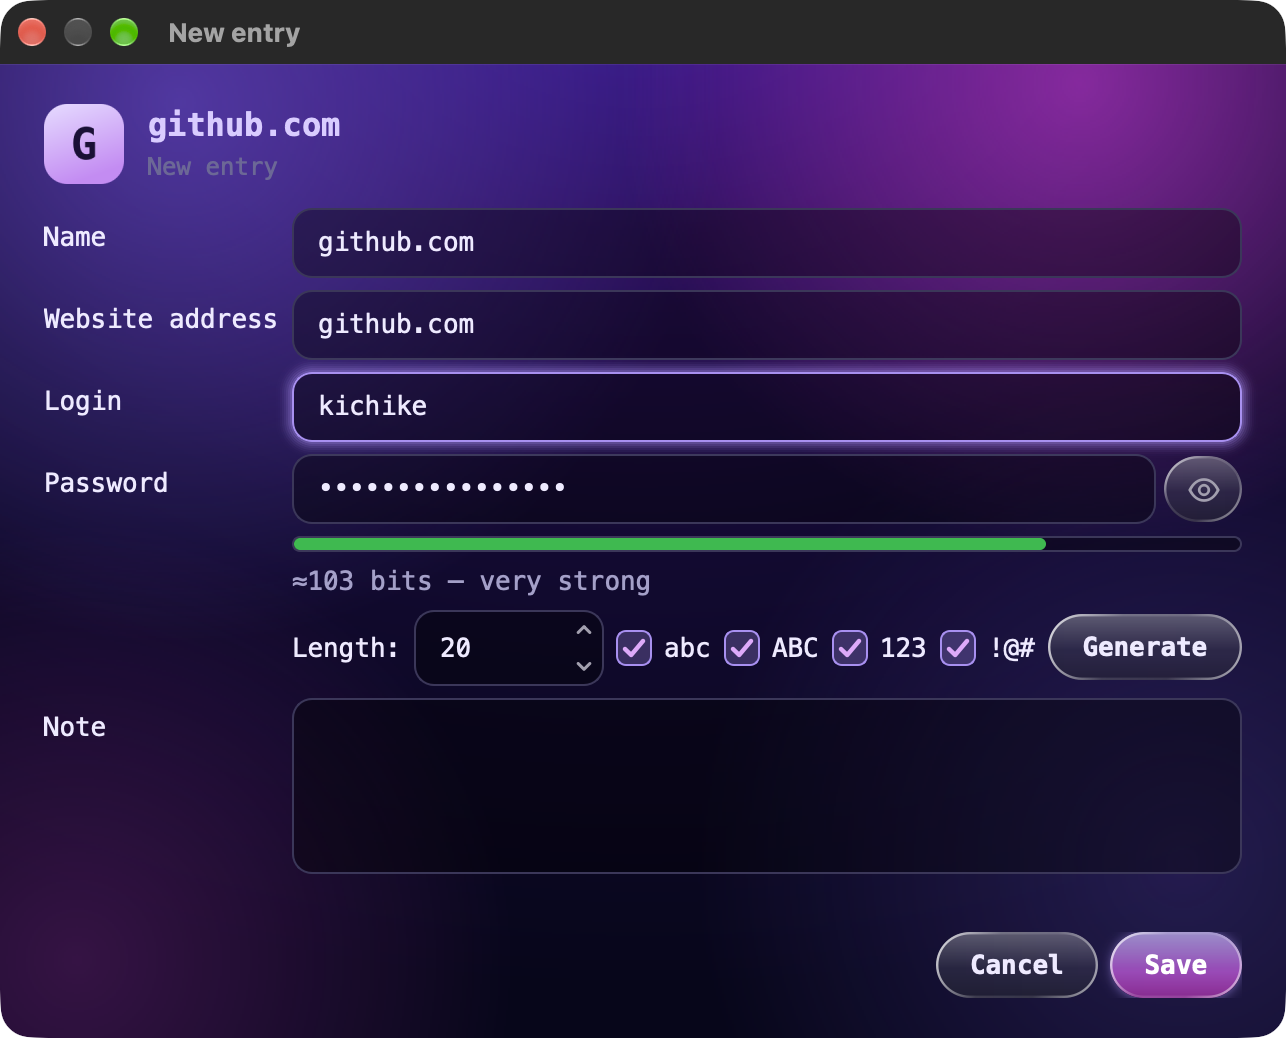
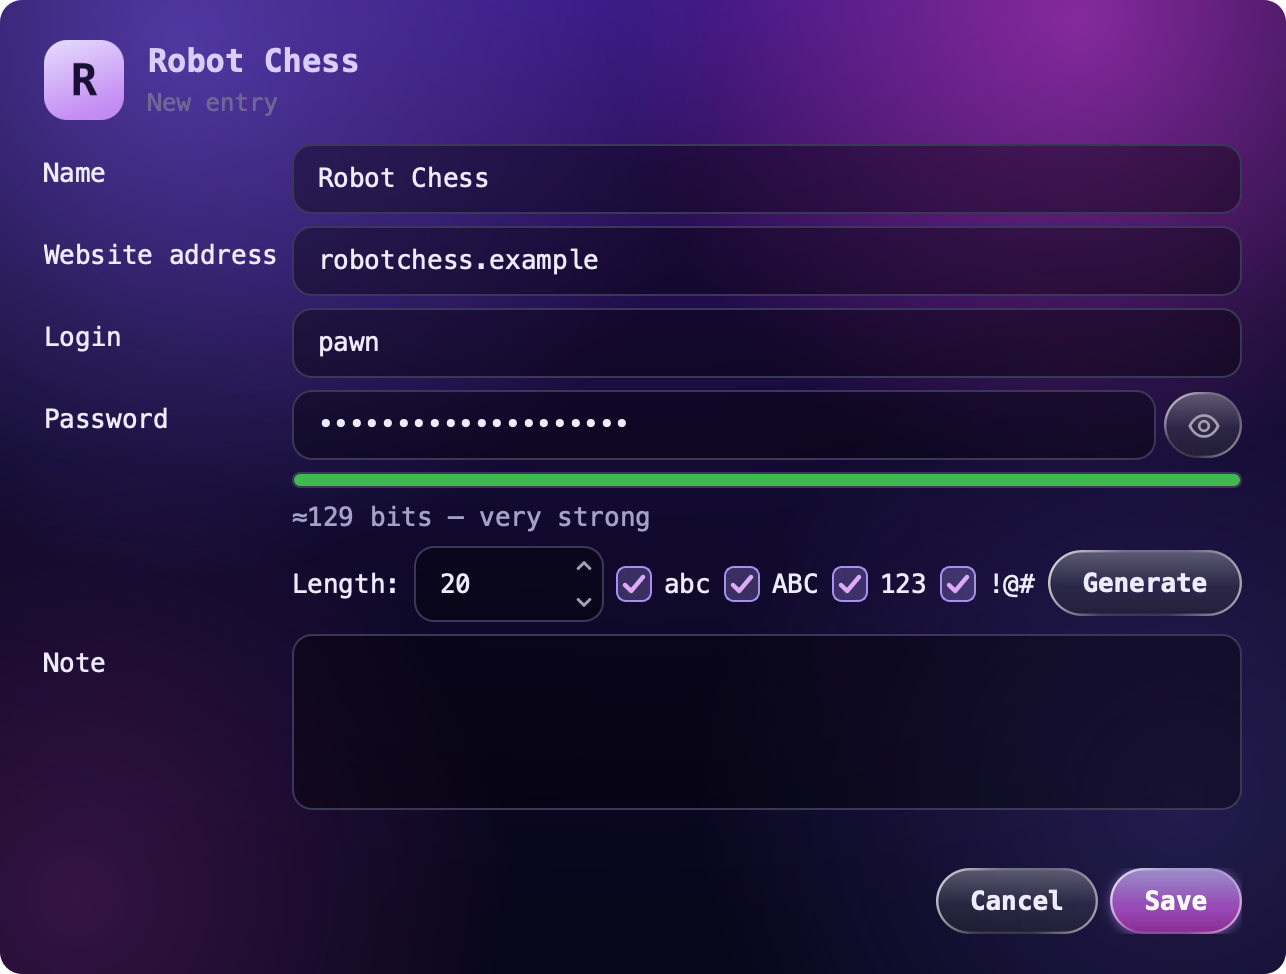
README screenshots with made-up entries; site: quiet anchor jumps, stay static after a lost WebGL context

diff --git a/site/sound.js b/site/sound.js
@@ -2,6 +2,7 @@
 // Звуковых файлов нет: всё синтезируется прямо в браузере.
 window.whoSound = (() => {
   let ctx = null, master, analyser, enabled = false;
+  let jumping = false, settled = true, settleTimer = 0;
   let lastNoteAt = 0, lastDots = -1, lastStep = -1, lastSeal = -1, lastPass = 0, lastC = 0, thudArmed = true;
   const clamp = (v, a = 0, b = 1) => Math.min(b, Math.max(a, v));
   // ноты мажорной пентатоники: любые из них звучат вместе без фальши
@@ -51,7 +52,10 @@ window.whoSound = (() => {
   function frame({ c, speed, dots, grid, uProg, passes, sealing, sealProgress }) {
     if (!enabled || !ctx) return;
     const now = performance.now();
-    if (dots > lastDots && lastDots >= 0) key();
+    // прыжок по ссылке из меню пролетает всю историю за секунду: молчим, пока страница не встанет
+    if (jumping && settled && speed < .02) jumping = false;
+    const loud = !jumping;
+    if (dots > lastDots && lastDots >= 0 && loud) key();
     lastDots = dots;
 
     if (grid > .01 && uProg > 0 && uProg < passes) {
@@ -59,25 +63,25 @@ window.whoSound = (() => {
       const step = Math.floor(uProg * 16), pass = Math.floor(uProg);
       if (step !== lastStep && lastStep >= 0 && now - lastNoteAt > 85) {
         const within = step % 16;
-        pluck(pass * 2 + [0, 2, 4, 3, 5, 7, 6, 8][within % 8] + (within >> 3) * 2);
+        if (loud) pluck(pass * 2 + [0, 2, 4, 3, 5, 7, 6, 8][within % 8] + (within >> 3) * 2);
         lastNoteAt = now;
       }
       lastStep = step;
-      if (pass > lastPass) chord();
+      if (pass > lastPass && loud) chord();
       lastPass = pass;
     } else {
       lastStep = -1;
       if (c < 2.1) lastPass = 0;
-      if (c > 2.8 && lastC <= 2.8) chord();
+      if (c > 2.8 && lastC <= 2.8 && loud) chord();
     }
 
     if (sealing) {
       const seal = Math.floor(clamp(sealProgress) * 6);
-      if (seal !== lastSeal && lastSeal >= 0 && now - lastNoteAt > 160) { bell(seal); lastNoteAt = now; }
+      if (seal !== lastSeal && lastSeal >= 0 && now - lastNoteAt > 160) { if (loud) bell(seal); lastNoteAt = now; }
       lastSeal = seal;
     } else lastSeal = -1;
 
-    if (c >= 4.3 && lastC < 4.3 && thudArmed) { thud(); thudArmed = false; }
+    if (c >= 4.3 && lastC < 4.3 && thudArmed) { if (loud) thud(); thudArmed = false; }
     if (c < 4.1) thudArmed = true;
     lastC = c;
   }
@@ -95,6 +99,19 @@ window.whoSound = (() => {
     else { setTimeout(() => { if (!enabled) ctx.suspend(); }, 250); }
     return enabled;
   }
+
+  // ссылка внутри страницы («Скачать», «Честно», логотип): дальше прокрутка — не человека
+  document.addEventListener('click', e => {
+    const link = e.target.closest && e.target.closest('a[href^="#"]');
+    if (link && !e.defaultPrevented) { jumping = true; settled = false; clearTimeout(settleTimer); settleTimer = setTimeout(() => { settled = true; }, 250); }
+  });
+  addEventListener('scroll', () => {
+    if (!jumping) return;
+    settled = false; clearTimeout(settleTimer);
+    settleTimer = setTimeout(() => { settled = true; }, 250);
+  }, { passive: true });
+  // человек сам взялся за прокрутку — снова его звук
+  for (const type of ['wheel', 'touchstart', 'keydown']) addEventListener(type, () => { jumping = false; }, { passive: true });
 
   document.addEventListener('visibilitychange', () => {
     if (!ctx || !enabled) return;

diff --git a/site/app.js b/site/app.js
@@ -500,8 +500,8 @@
     let sm = scrollY, last = performance.now(), t0 = last, visible = true, arcsDirty = false, lastDots = -1, lastHud = '';
     new IntersectionObserver(es => { visible = es[0].isIntersecting; if (visible) kick(); }).observe($('#story'));
     document.addEventListener('visibilitychange', () => { if (!document.hidden) kick(); });
-    let raf = 0;
-    function kick() { if (!raf) { last = performance.now(); raf = requestAnimationFrame(frame); } }
+    let raf = 0, lost = false;
+    function kick() { if (!raf && !lost) { last = performance.now(); raf = requestAnimationFrame(frame); } }
     addEventListener('scroll', kick, { passive: true });
 
     function drawArcs(pass, f) {
@@ -534,7 +534,7 @@
 
     function frame(now) {
       raf = 0;
-      if (!visible || document.hidden) return;
+      if (!visible || document.hidden || lost) return;
       const dt = Math.min(.05, (now - last) / 1000); last = now;
       const y = scrollY, prev = sm;
       sm += (y - sm) * (1 - Math.exp(-dt * 8));
@@ -638,12 +638,13 @@
     }
 
     function layoutAll() {
+      if (lost) return;
       measure();
       buildStatic();
       buildDemo();
       metrics();
     }
-    rebuildDemoFormations = () => { lastHud = ''; buildDemo(); metrics(); };
+    rebuildDemoFormations = () => { if (lost) return; lastHud = ''; buildDemo(); metrics(); };
     layoutAll();
     onLang = () => { layoutAll(); seg = null; };
     let rt = 0, lastW = innerWidth, lastH = innerHeight;
@@ -651,13 +652,19 @@
       // phones change height when the address bar hides: not a reason to rebuild
       if (innerWidth === lastW && Math.abs(innerHeight - lastH) < 130) return;
       lastW = innerWidth; lastH = innerHeight;
+      // видеокарту у страницы отняли: остаётся спокойная версия без частиц, иначе вместо сцены будет пустота
+      if (lost) { drawStaticGrid(); return; }
       clearTimeout(rt);
       if (innerHeight < 500) { docEl.classList.remove('fx'); visible = false; drawStaticGrid(); return; }
       docEl.classList.add('fx');
       rt = setTimeout(() => { layoutAll(); seg = null; visible = true; kick(); }, 180);
     });
     addEventListener('load', metrics);
-    gl.canvas.addEventListener('webglcontextlost', e => { e.preventDefault(); docEl.classList.remove('fx'); drawStaticGrid(); });
+    gl.canvas.addEventListener('webglcontextlost', e => {
+      e.preventDefault();
+      lost = true; clearTimeout(rt); cancelAnimationFrame(raf); raf = 0;
+      docEl.classList.remove('fx'); drawStaticGrid();
+    });
     kick();
   }
 
